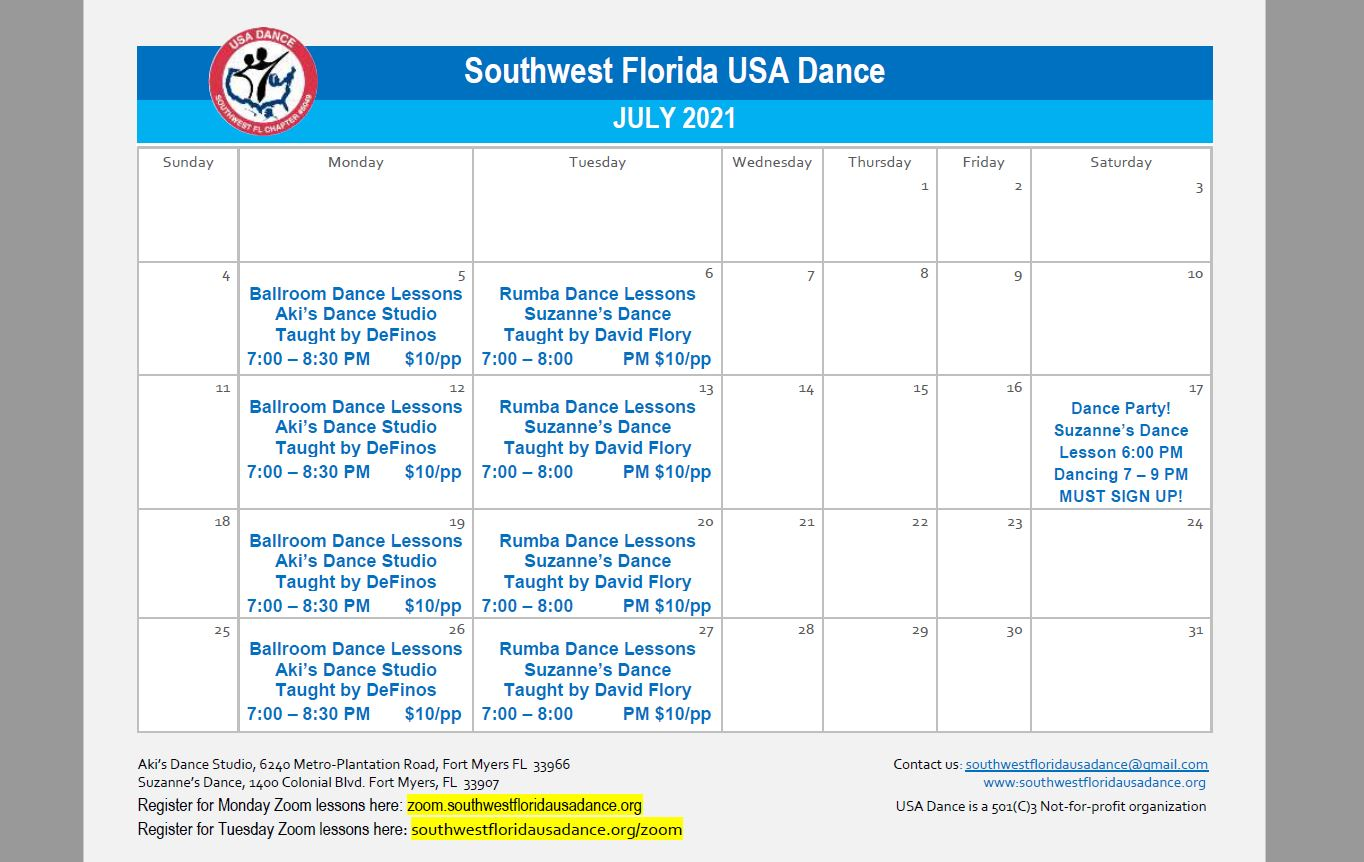
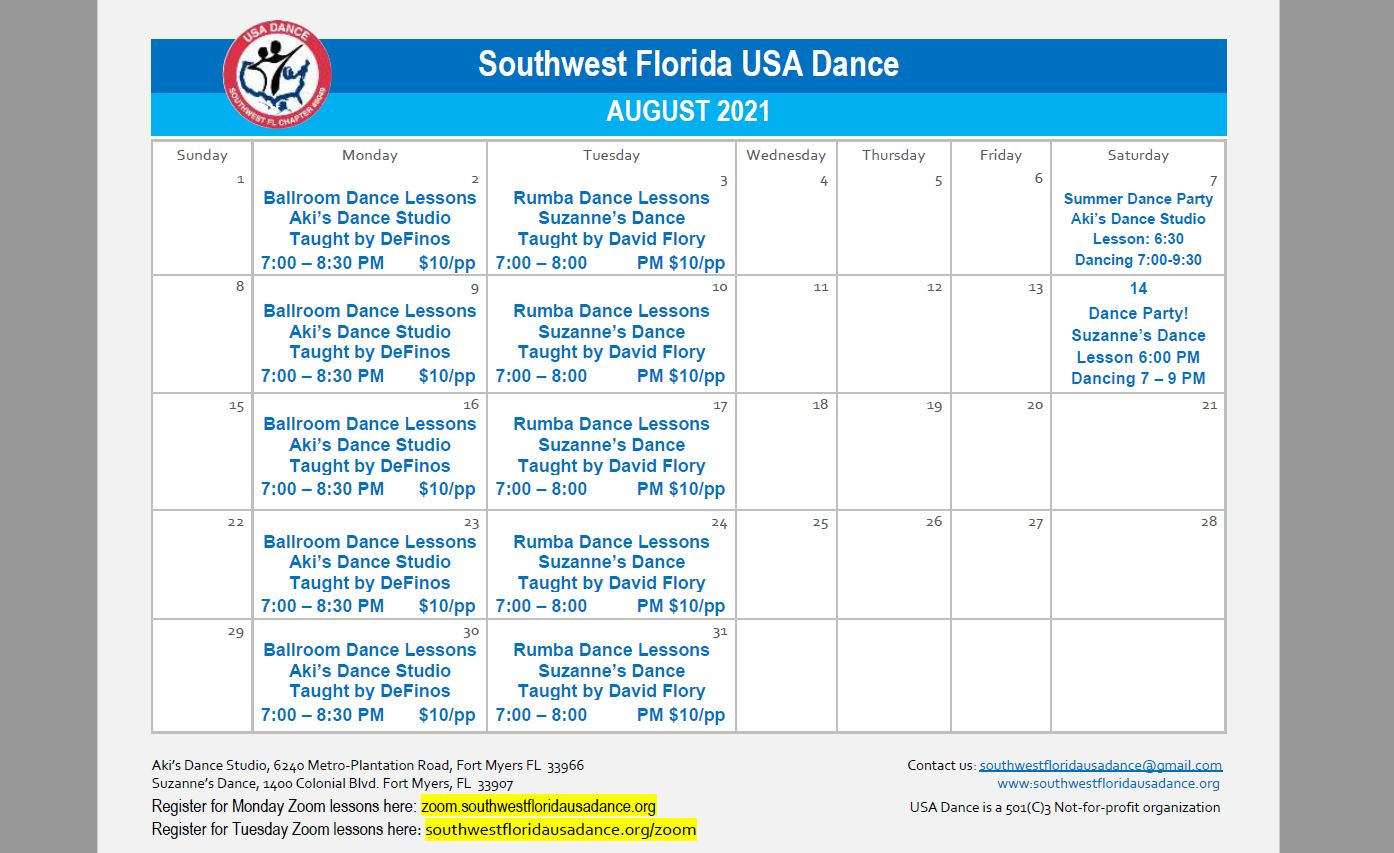
aug updates

Changed region(s): [[0.0616, 0.0, 0.9545, 1.0], [0.585, 0.2743, 0.6158, 0.3658], [0.585, 0.4267, 0.6158, 0.4877]]

diff --git a/docs/index.html b/docs/index.html
@@ -235,10 +235,16 @@
                     <img class="d-block w-100" src="./img/announcements/calendar.jpg" alt="Current Calendar">
                   </div>
                   <div class="carousel-item">
-                    <img class="d-block w-100" src="./img/announcements/rumba.jpg" alt="Cha Cha">
+                    <img class="d-block w-100" src="./img/announcements/rumba.jpg" alt="Rumba">
                   </div>
                   <div class="carousel-item">
-                    <img class="d-block w-100" src="./img/announcements/ballroom.jpg" alt="Ballroom">
+                    <img class="d-block w-100" src="./img/announcements/chacha.jpg" alt="Cha Cha">
+                  </div>
+                  <div class="carousel-item">
+                    <img class="d-block w-100" src="./img/announcements/dog.jpg" alt="Dog Days of Summer">
+                  </div>
+                  <div class="carousel-item">
+                    <img class="d-block w-100" src="./img/announcements/suzanne.jpg" alt="Suzanne's Dance Party">
                   </div>
 
                   <!--                      <div class="carousel-item">
